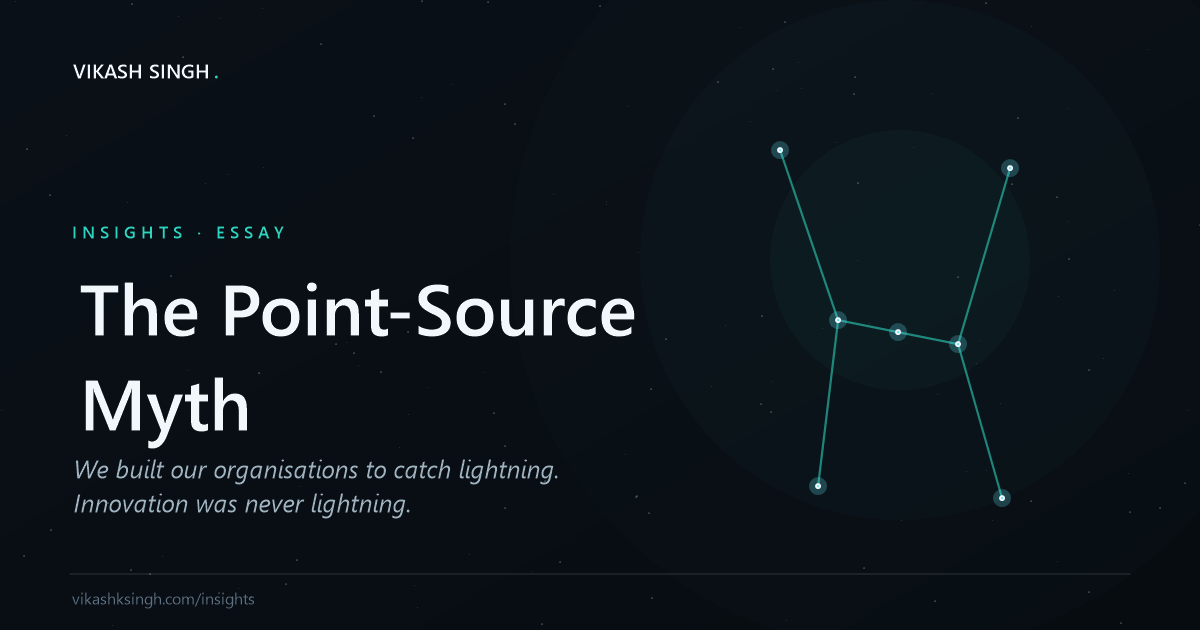
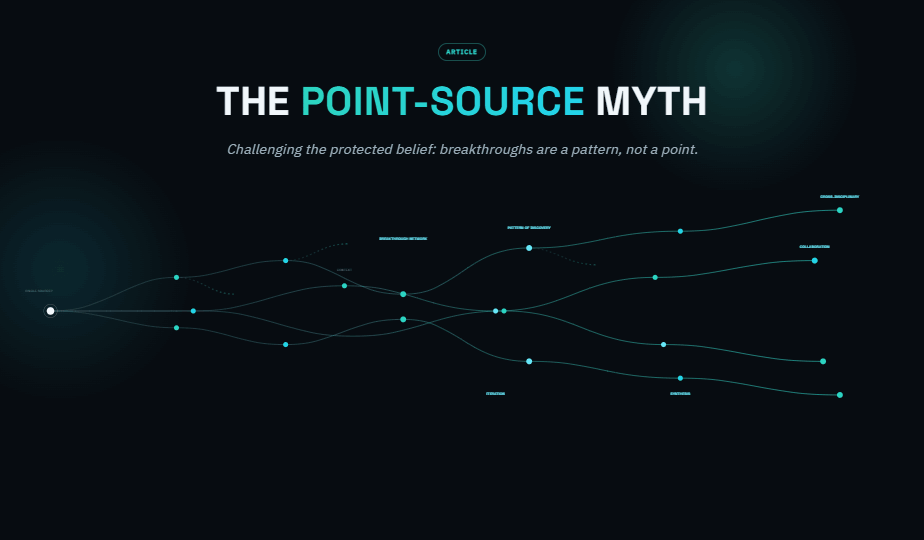
Replace article header image, stop hardcoding its aspect ratio
Swap in the supplied header artwork (924x540) for the essay's
hero/OG image. Drop the width/height="1200"/"630" attrs on the
hero <img> in build.js — they didn't match this image's actual
ratio and, combined with width:100% CSS, would have stretched it.

diff --git a/build.js b/build.js
@@ -242,7 +242,7 @@ function articlePage(p){
 <script type="application/ld+json">${jsonld}</script>
 ${c.head}</head><body>
 ${c.header}
-${p.cover?`<div class="cover"><img src="${esc(p.cover)}" alt="${esc(p.title)}" width="1200" height="630"></div>`:""}
+${p.cover?`<div class="cover"><img src="${esc(p.cover)}" alt="${esc(p.title)}"></div>`:""}
 <article class="essay">
   <div class="kicker-row"><span class="kicker">Insights</span><span class="kicker" style="color:var(--faint)">${fmtDate(p.date)} · ${p.minutes} min read</span></div>
   <h1>${esc(p.title)}</h1>